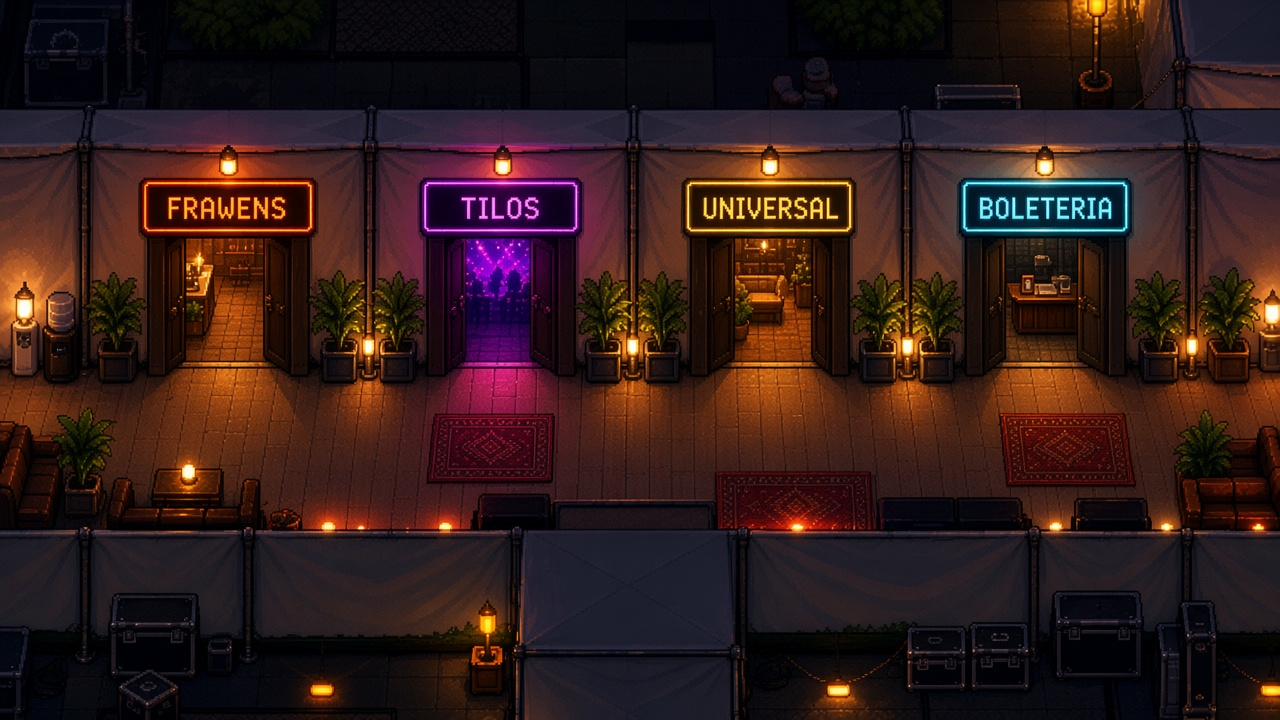
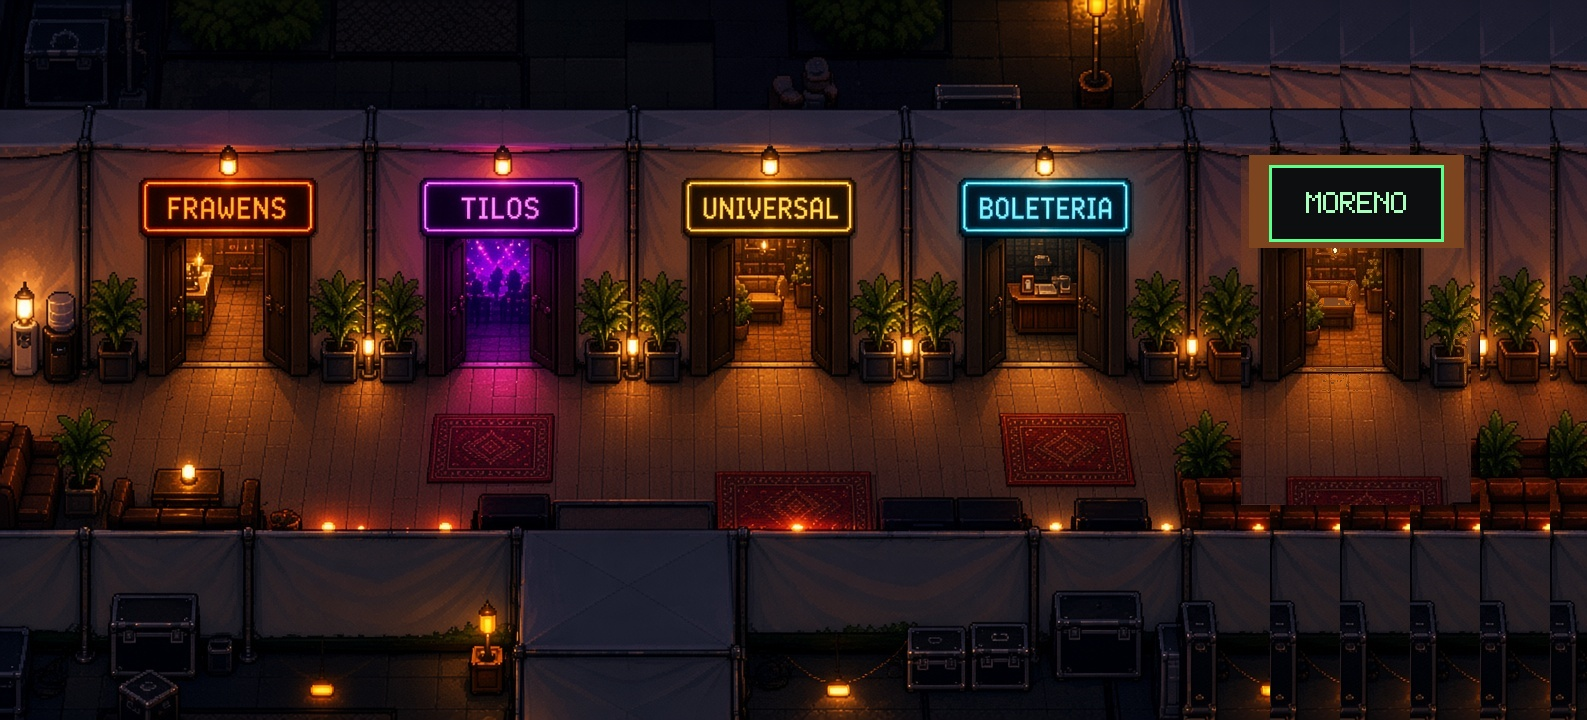
Give Plaza Moreno its own door in the pasillo.
Move the entrance off the floor and onto a new doorway at the end of the hall.

diff --git a/js/data.js b/js/data.js
@@ -143,20 +143,20 @@ function rowsOf(rows) {
 }
 
 const PASILLO_ROWS = rowsOf([
-  "#########################",
-  "#########################",
-  "#########################",
-  "#########################",
-  "#########################",
-  "#########################",
-  "####..###..###..###.bbb##",
-  "##.................bbb###",
-  "##.................bbb###",
-  "##.....................##",
-  "#########################",
-  "#########################",
-  "#########################",
-  "#########################",
+  "###############################",
+  "###############################",
+  "###############################",
+  "###############################",
+  "###############################",
+  "###############################",
+  "####..###..###..###.bbb###..###",
+  "##.................bbb###......",
+  "##.................bbb###......",
+  "##.....................##......",
+  "###############################",
+  "###############################",
+  "###############################",
+  "###############################",
 ]);
 
 const ROOM_ROWS = rowsOf([
@@ -312,28 +312,36 @@ const MAPS = {
         spawnBack: { tx: 15, ty: 8 },
       },
       {
-        tx: 11,
-        ty: 9,
+        tx: 26,
+        ty: 6,
         to: "moreno",
         label: "Plaza Moreno",
         spawnThere: { tx: 55, ty: 30 },
-        spawnBack: { tx: 11, ty: 8 },
+        spawnBack: { tx: 26, ty: 8 },
       },
       {
-        tx: 12,
-        ty: 9,
+        tx: 27,
+        ty: 6,
         to: "moreno",
         label: "",
         spawnThere: { tx: 55, ty: 30 },
-        spawnBack: { tx: 12, ty: 8 },
+        spawnBack: { tx: 27, ty: 8 },
       },
       {
-        tx: 13,
-        ty: 9,
+        tx: 26,
+        ty: 7,
         to: "moreno",
         label: "",
         spawnThere: { tx: 55, ty: 30 },
-        spawnBack: { tx: 13, ty: 8 },
+        spawnBack: { tx: 26, ty: 8 },
+      },
+      {
+        tx: 27,
+        ty: 7,
+        to: "moreno",
+        label: "",
+        spawnThere: { tx: 55, ty: 30 },
+        spawnBack: { tx: 27, ty: 8 },
       },
     ],
     counter: true,

diff --git a/js/game.js b/js/game.js
@@ -89,7 +89,7 @@ TITLE_ART.src = "assets/brand/title.jpg?v=51";
 const TITLE_PLAY = { x: 80, y: 160, w: 96, h: 36 };
 
 const PASILLO_ART = new Image();
-PASILLO_ART.src = "assets/places/pasillo/backstage.jpg?v=34";
+PASILLO_ART.src = "assets/places/pasillo/backstage.jpg?v=69";
 
 const FRAWENS_ART = new Image();
 FRAWENS_ART.src = "assets/places/frawens/salon.png?v=38";
@@ -1000,15 +1000,6 @@ function drawTilosLights(map) {
 
 function drawDoors(map) {
   if (map.id === "pasillo" || map.id === "frawens" || map.id === "universal" || map.id === "moreno") {
-    if (map.id === "pasillo") {
-      for (const door of map.doors) {
-        if (door.to !== "moreno") {
-          continue;
-        }
-        ctx.fillStyle = "rgba(69, 177, 209, 0.45)";
-        ctx.fillRect(door.tx * TILE + 2, door.ty * TILE + 2, 12, 12);
-      }
-    }
     if (map.id === "frawens" || map.id === "universal" || map.id === "moreno") {
       for (const exit of map.exits) {
         ctx.fillStyle = "rgba(230, 195, 106, 0.55)";
@@ -1246,16 +1237,6 @@ function drawLabels(map, cam) {
   ctx.font = '8px "Press Start 2P", monospace';
   ctx.fillStyle = "#f3e6c8";
   if (map.id === "pasillo") {
-    for (const door of map.doors) {
-      if (!door.label || door.to !== "moreno") {
-        continue;
-      }
-      const text = door.label;
-      const x = door.tx * TILE + 8 - ctx.measureText(text).width / 2 - cam.x;
-      const y = door.ty * TILE - 2 - cam.y;
-      ctx.fillStyle = BRAND.cyan;
-      ctx.fillText(text, x, y);
-    }
     return;
   }
   for (const door of map.doors) {

diff --git a/index.html b/index.html
@@ -7,7 +7,7 @@
     <link rel="preconnect" href="https://fonts.googleapis.com" />
     <link rel="preconnect" href="https://fonts.gstatic.com" crossorigin />
     <link href="https://fonts.googleapis.com/css2?family=Press+Start+2P&display=swap" rel="stylesheet" />
-    <link rel="stylesheet" href="css/game.css?v=68" />
+    <link rel="stylesheet" href="css/game.css?v=69" />
   </head>
   <body>
     <div id="app">
@@ -22,8 +22,8 @@
         <button type="button" id="talk">Hablar</button>
       </div>
     </div>
-    <script src="js/config.js?v=68"></script>
-    <script src="js/data.js?v=68"></script>
-    <script src="js/game.js?v=68"></script>
+    <script src="js/config.js?v=69"></script>
+    <script src="js/data.js?v=69"></script>
+    <script src="js/game.js?v=69"></script>
   </body>
 </html>
